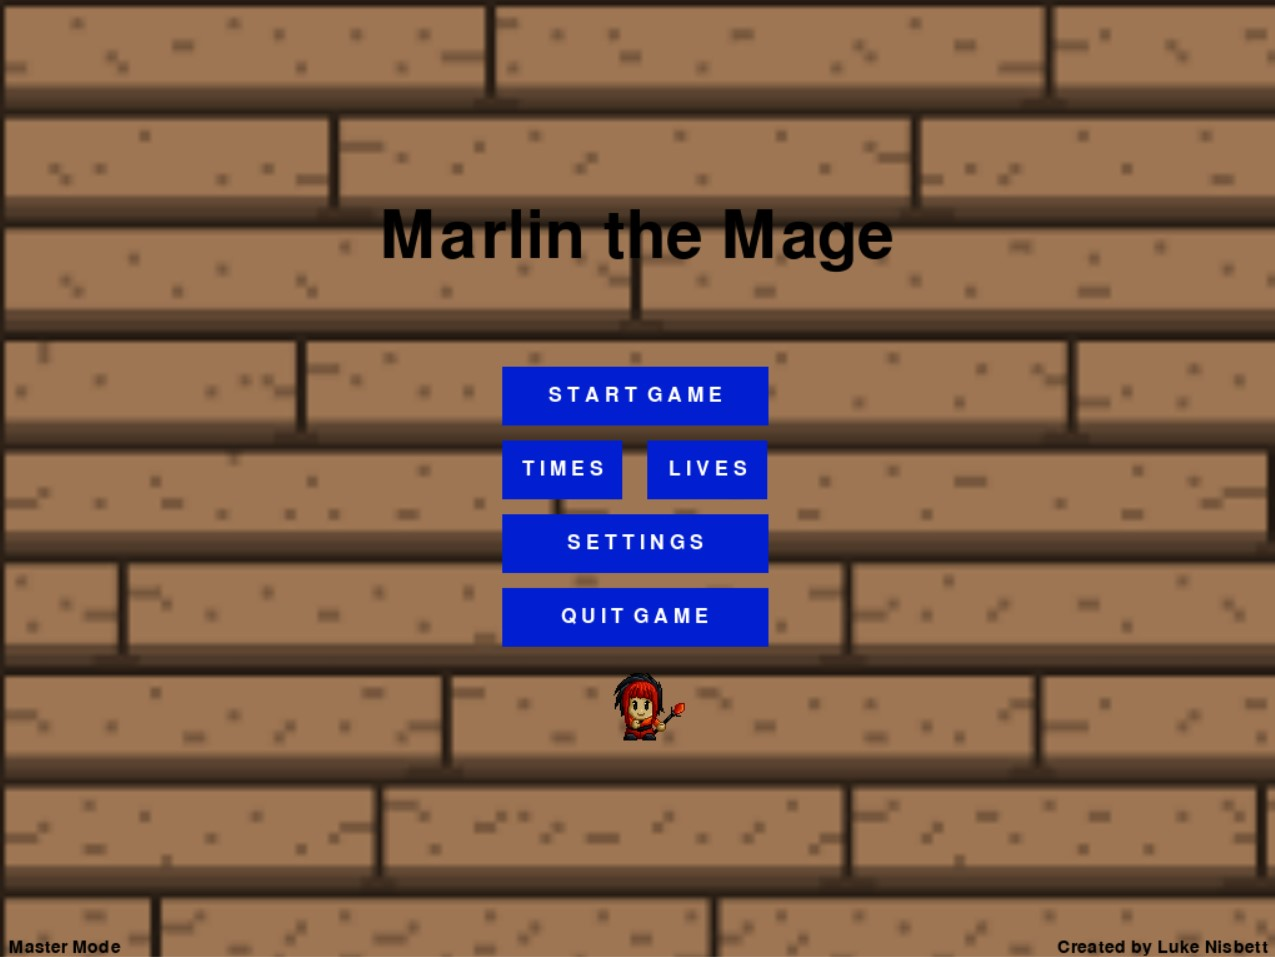
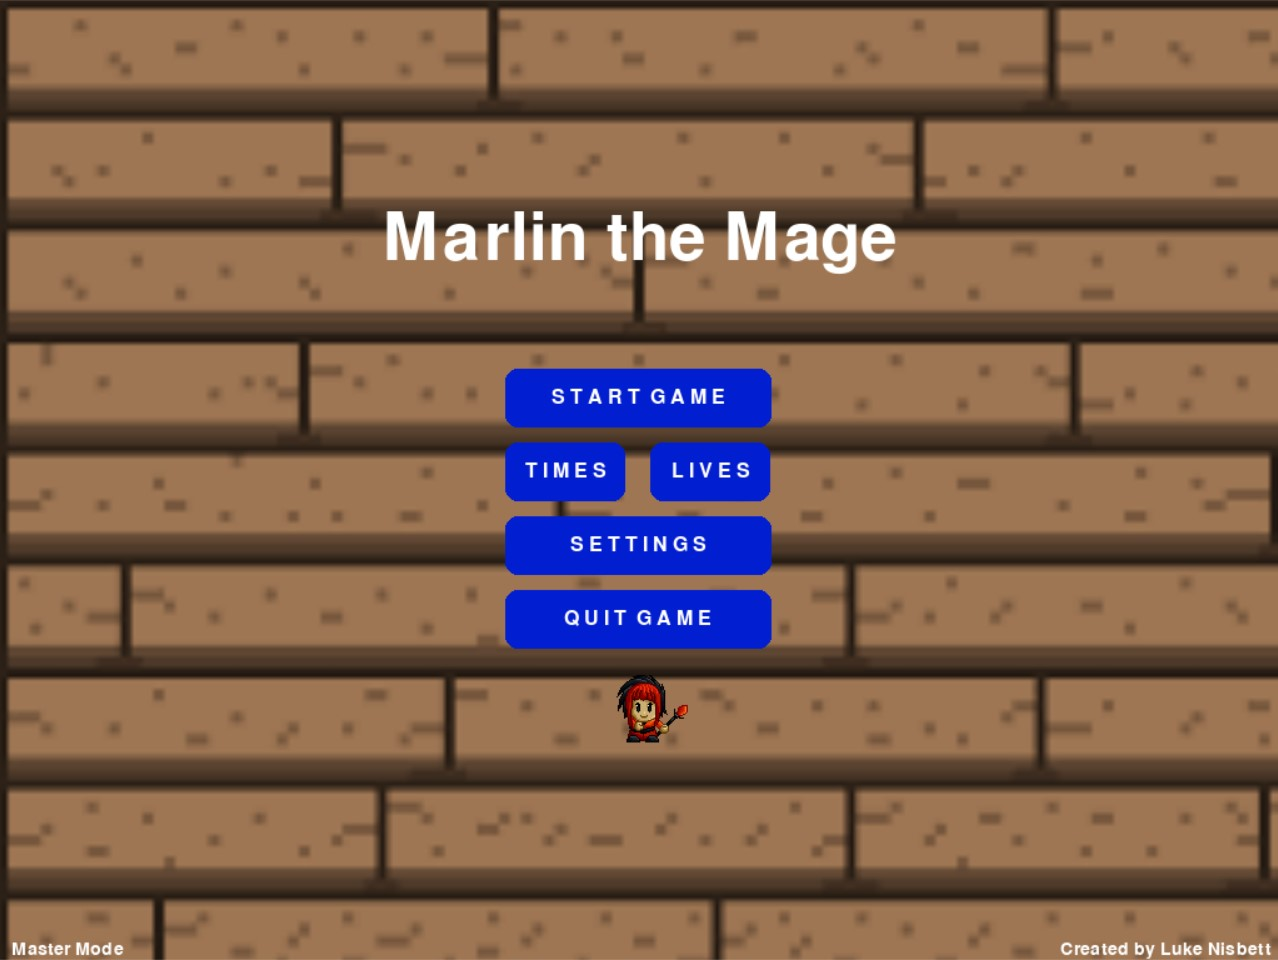
Settings Finished, Leaves platforms, Shield lower

diff --git a/index.py b/index.py
@@ -23,6 +23,8 @@ class Game:
         self.enemy_shooting = True
         self.filename = 'times.txt'
         self.enemies = 0
+        pygame.mixer.music.set_volume(1)
+        self.volume = pygame.mixer.music.get_volume()
         self.game_delay = True
         self.level = 0
         self.played_level = 0
@@ -60,7 +62,7 @@ class Game:
         self.player = Mage(self,Width/2,668)
         self.health = 3 + self.extra_health
         self.players.add(self.player)
-        self.shield = Shield(self,random.randint(100,900),random.randint(100,640))
+        self.shield = Shield(self,random.randint(100,900),random.randint(500,640))
         self.coin = Coin(self,50,25)
         self.all_sprites.add(self.coin)
         self.power_ups.add(self.shield)
@@ -147,30 +149,22 @@ class Game:
             the_position = random.randint(0,5)
             self.caster_list.add(Caster(self,*position[the_position]))
             self.enemies += 1
-        '''for c in self.caster_list:
-            self.platforms.add(platform(c.rect.x, c.rect.y+50,100,20,White))
-            self.all_sprites.add(self.platforms)'''
         self.enemy_list.add(self.orc_list)
         self.enemy_list.add(self.caster_list)
         self.enemy_list.add(self.wraith_list)
         self.all_sprites.add(self.player)
         self.wraithupdate = True
         self.hit = False
-        #platform_number = random.randint(4,7)
-        '''for i in range(0,platform_number):
-            p = (platform(random.randint(100,900),random.randint(150,600),random.randint(60,180),20,Black))
-            self.all_sprites.add(p)
-            self.platforms.add(p)'''
         Platform_non_list = [(0,667,1100,40,Black)] #(947,438),(772,391),(582,358),(274,424),(63,436)
         for plat in Platform_non_list:
-            p = platform(*plat)
+            p = nonplatform(*plat)
             #self.all_sprites.add(p)
             self.platforms.add(p)
-        Platform_see_list = [(452,400,100,20,Black),(947,438,40,20,Black),(772,391,40,20,Black),(582,358,40,20,Black),(274,424,40,20,Black),(63,436,40,20,Black)]
-        for plat in Platform_see_list:
-            p = platform(*plat)
-            self.all_sprites.add(p)
-            self.platforms.add(p)
+        Platform_see_list = [((Width/5)-30,501,100,20),((Width/5) + (Width/5)-30,501,40,20),((Width/5) + (Width/5) + (Width/5)-30,501,40,20),((Width/5) + (Width/5) + (Width/5) + (Width/5)-30,501,40,20)]
+        leaves = random.randint(0,3)
+        p = platform(*Platform_see_list[leaves])
+        self.all_sprites.add(p)
+        self.platforms.add(p)
         self.game_seconds = 0
         self.game_minutes = 0 
         self.counts = 0
@@ -252,7 +246,7 @@ class Game:
                 elif self.player.rect.y > w.rect.y:
                     w.rect.y += self.wraithvspeed 
             for c in self.caster_list:
-                if c.current_frame == 17:
+                if c.current_frame == 17 or c.current_frame == 9:
                     if self.enemy_shooting:
                         enemy_fire = Ability(c.rect.x,c.rect.y,self.player.pos.x,self.player.pos.y,14)
                         self.enemy_fireballs.add(enemy_fire)
@@ -279,31 +273,6 @@ class Game:
             self.game_over_screen()
         self.sprite_collisions()
         #Check for scrolling
-        '''if self.player.rect.right >= (Width - (Width / 4)):
-            self.player.pos.x -= max(abs(self.player.vel.x),2)
-            for plat in self.platforms:
-                plat.rect.x -= max(abs(self.player.vel.x),2)
-            for e in self.enemy_list:
-                e.rect.x -= max(abs(self.player.vel.x),2)
-            for e in self.enemy_fireballs:
-                e.rect.centerx -= max(abs(self.player.vel.x),2)
-            for s in self.power_ups:
-                s.rect.centerx -= max(abs(self.player.vel.x),2)
-            for f in self.fireballs:
-                f.rect.centerx -= max(abs(self.player.vel.x),2)
-        if self.player.rect.left <= Width / 4:
-            self.player.pos.x += max(abs(self.player.vel.x),2)
-            for plat in self.platforms:
-                plat.rect.x += max(abs(self.player.vel.x),2)
-            for e in self.enemy_fireballs:
-                e.rect.centerx += max(abs(self.player.vel.x),2)
-            for e in self.enemy_list:
-                e.rect.x += max(abs(self.player.vel.x),2)
-            for s in self.power_ups:
-                s.rect.x += max(abs(self.player.vel.x),2)
-            for f in self.fireballs:
-                f.rect.x += max(abs(self.player.vel.x),2)
-        return'''
     
     def sprite_collisions(self):
         mouse_x, mouse_y = pygame.mouse.get_pos()
@@ -312,6 +281,7 @@ class Game:
             if self.shooting:
                 self.fire = Ability(self.player.pos.x,self.player.pos.y-30, mouse_x, mouse_y,10)
                 self.fireballs.add(self.fire)
+                self.player.fire_sound.set_volume(self.volume)
                 self.player.fire_sound.play()
                 self.shooting = False
                 pygame.time.set_timer(pygame.USEREVENT + 1, 400)
@@ -350,7 +320,7 @@ class Game:
             self.enemies -= 1
             self.coins = int(self.coins)
             self.coins += 10
-        fire_plat_hit = pygame.sprite.groupcollide(self.fireballs,self.platforms, True, False)
+        fire_plat_hit = pygame.sprite.groupcollide(self.enemy_fireballs,self.platforms, True, False)
         if self.shield.collect == True:
             shield_activate = pygame.sprite.groupcollide(self.players,self.power_ups,False,False)
             if shield_activate:
@@ -445,18 +415,11 @@ class Game:
         with open(self.filename,'a') as times: 
             times.write("Your game time - " + str(self.game_minutes) + ":" + str(self.game_seconds) + "  Level - " + str(self.level) + '\n')
 
-    def times_table(self):
-        self.scores = pygame.draw.rect(self.screen,Black,((Width/2)-150,(Height - Height)-150,300,300),3)
-        self.game_timer = str(self.game_timer)
-        scores_surf = SMALL_TEXT.render(self.game_timer,True,Black)
-        scores_rect = scores_surf.get_rect()
-        scores_rect.center = (int(Width / 2), int(Height - Height))
-
     def times_read(self):
         reading = True
         red_button_background = pygame.transform.rotozoom(pygame.image.load("Red Button Background.jpg"),0,0.8)
+        green_button_background = pygame.transform.rotozoom(pygame.image.load("Green_Button_Background.jpg"),0,0.8)
         blue_button_background = pygame.transform.rotozoom(pygame.image.load("Blue_Button_Background.jpg"),0,0.805)
-        #self.times_table()        
         text_surf = SMALL_TEXT.render("Press Esc to return to main menu.",True,White)
         text_rect = text_surf.get_rect()
         text_rect.center = (Width/5, 220)
@@ -469,7 +432,7 @@ class Game:
             if self.mode == 'Easy Mode':
                 self.screen.blit(red_button_background, (3,0))
             if self.mode == 'Hard Mode':
-                self.screen.blit(red_button_background, (3,0))
+                self.screen.blit(green_button_background, (3,0))
             if self.mode == 'Master Mode':
                 self.screen.blit(blue_button_background, (3,0))
             ptext.draw(filecontents, (Width/5-117,310), color=White)
@@ -510,6 +473,7 @@ class Game:
     def lives_read(self):
         reading = True
         red_button_background = pygame.transform.rotozoom(pygame.image.load("Red Button Background.jpg"),0,0.8)
+        green_button_background = pygame.transform.rotozoom(pygame.image.load("Green_Button_Background.jpg"),0,0.8)
         blue_button_background = pygame.transform.rotozoom(pygame.image.load("Blue_Button_Background.jpg"),0,0.803)
         text_surf = SMALL_TEXT.render("Press Esc to return to main menu.",True,White)
         text_rect = text_surf.get_rect()
@@ -531,6 +495,8 @@ class Game:
             self.screen.fill(White)
             if self.mode == 'Easy Mode':
                 self.screen.blit(red_button_background, (0,0))
+            if self.mode == "Hard Mode":
+                self.screen.blit(green_button_background,(0,0))
             if self.mode == 'Master Mode':
                 self.screen.blit(blue_button_background, (0,0))
             self.screen.blit(text_surf, text_rect)
@@ -651,11 +617,15 @@ class Game:
         text_rect = text_surf.get_rect()
         text_rect.center = (int(Width / 2), int(Height / 3+60))
         self.screen.blit(text_surf, text_rect)
-        text_surf = HUD_TEXT.render('The coins can buy more lives from the main menu scree.',True,White)
+        text_surf = HUD_TEXT.render('The coins can buy more lives from the main menu screen.',True,White)
         text_rect = text_surf.get_rect()
         text_rect.center = (int(Width / 2), int(Height / 3+90))
         self.screen.blit(text_surf, text_rect)
         text_surf = HUD_TEXT.render('To continue playing press any key.',True,White)
+        text_rect = text_surf.get_rect()
+        text_rect.center = (int(Width / 2), int(Height / 3+150))
+        self.screen.blit(text_surf, text_rect)
+        text_surf = HUD_TEXT.render('Use the leaves blocks to hide from the enemy fireballs.',True,White)
         text_rect = text_surf.get_rect()
         text_rect.center = (int(Width / 2), int(Height / 3+120))
         self.screen.blit(text_surf, text_rect)
@@ -830,6 +800,7 @@ class Game:
         self.settings_screen_setup()
         won = True
         while won:
+            self.volume = pygame.mixer.music.get_volume()
             if self.tutorial_mode_1 == True:
                 tute = 'O N'
             else:
@@ -847,22 +818,36 @@ class Game:
                     pygame.quit()
                 elif event.type == pygame.MOUSEBUTTONDOWN: 
                     click = True
-            if self.button('T U T O R I A L  :  '+tute, *button_layout_5[0], click, Menu_Settings, Inactive_Menu_Settings):
+            if self.button('T U T O R I A L  :  '+tute, *button_layout_settings[0], click, Menu_Settings, Inactive_Menu_Settings):
                 if self.tutorial_mode_1 == True:
                     self.tutorial_mode_1 = False
                 else:
                     self.tutorial_mode_1 = True
-            elif self.button('M O D E  :  ' + mode, *button_layout_5[1], click, Menu_Settings, Inactive_Menu_Settings):
+            elif self.button('M O D E  :  ' + mode, *button_layout_settings[1], click, Menu_Settings, Inactive_Menu_Settings):
                 if self.mode == 'Easy Mode':
                     self.mode = 'Hard Mode'
                 elif self.mode == 'Hard Mode':
                     self.mode = 'Master Mode'
                 elif self.mode == 'Master Mode':
                     self.mode = 'Easy Mode'
-            elif self.button('B A C K', *button_layout_5[2], click, Menu_Settings, Inactive_Menu_Settings): 
+            elif self.button('V O L U M E  :  ' + str(self.volume), *button_layout_settings[2], click, Menu_Settings, Menu_Settings):
+                pass
+            elif self.button('-', *button_layout_settings[3], click, Menu_Settings, Inactive_Menu_Settings): 
+                if self.volume == 0:
+                    pass
+                else:
+                    self.volume -= 0.25
+                    pygame.mixer.music.set_volume(self.volume)
+            elif self.button('+', *button_layout_settings[4], click, Menu_Settings, Inactive_Menu_Settings): 
+                if self.volume == 1:
+                    pass
+                else:
+                    self.volume += 0.25
+                    pygame.mixer.music.set_volume(self.volume)
+            elif self.button('B A C K', *button_layout_settings[5], click, Menu_Settings, Inactive_Menu_Settings): 
                 self.show_start_screen()
                 won = False
-            pygame.display.update(button_layout_5)
+            pygame.display.update(button_layout_settings)
             self.Clock.tick(FPS)
         return
 

diff --git a/Settings.py b/Settings.py
@@ -33,6 +33,7 @@ SMALL_TEXT = pygame.font.Font(FONT_BOLD, int(45 / 1440 * Height))
 HUD_TEXT = pygame.font.Font(FONT_REG, int(40 / 1440 * Height))
 BUTTON_WIDTH = int(Width * 0.625 // 3)
 BUTTON_WIDTH_SMALL = int(Width * 0.625 // 3 / 2)
+BUTTON_WIDTH_VERY_SMALL = int(Width * 0.625 // 3 / 4)
 BUTTON_HEIGHT = int(Height * 5 // 81)
 button_x_start = (Width - BUTTON_WIDTH) // 2
 LEVEL_QUIT_BUTTON = int(Width * 0.625 // 3) +20
@@ -60,5 +61,11 @@ button_layout_5 = [(button_x_start, Height * 5 // 13, BUTTON_WIDTH, BUTTON_HEIGH
                        (button_x_start, Height * 7 // 13, BUTTON_WIDTH, BUTTON_HEIGHT),
                        (button_x_start, Height * 8 // 13, BUTTON_WIDTH, BUTTON_HEIGHT),
                        (button_x_start, Height * 9 // 13, BUTTON_WIDTH, BUTTON_HEIGHT)]
+button_layout_settings = [(button_x_start, Height * 5 // 13, BUTTON_WIDTH, BUTTON_HEIGHT),
+                       (button_x_start, Height * 6 // 13, BUTTON_WIDTH, BUTTON_HEIGHT),
+                       (button_x_start, Height * 7 // 13, BUTTON_WIDTH, BUTTON_HEIGHT),
+                       (button_x_start+BUTTON_WIDTH_VERY_SMALL-125, Height * 7 // 13, BUTTON_WIDTH_VERY_SMALL, BUTTON_HEIGHT),
+                       (button_x_start+BUTTON_WIDTH+19, Height * 7 // 13, BUTTON_WIDTH_VERY_SMALL, BUTTON_HEIGHT),
+                       (button_x_start, Height * 8 // 13, BUTTON_WIDTH, BUTTON_HEIGHT)]
 PLAYER_ACC = 1
 PLAYER_FRICTION = -0.12

diff --git a/sprites.py b/sprites.py
@@ -128,6 +128,14 @@ class Ability(pygame.sprite.Sprite):
         return rot_image, rot_rect
 
 class platform(pygame.sprite.Sprite):
+    def __init__(self, x, y, w, h):
+        pygame.sprite.Sprite.__init__(self)
+        self.image = pygame.transform.rotozoom(pygame.image.load("Leaves.png"),0,0.75)
+        self.rect = self.image.get_rect()
+        self.rect.x = x
+        self.rect.y = y
+
+class nonplatform(pygame.sprite.Sprite):
     def __init__(self, x, y, w, h,color):
         pygame.sprite.Sprite.__init__(self)
         self.image = pygame.Surface((w,h))
